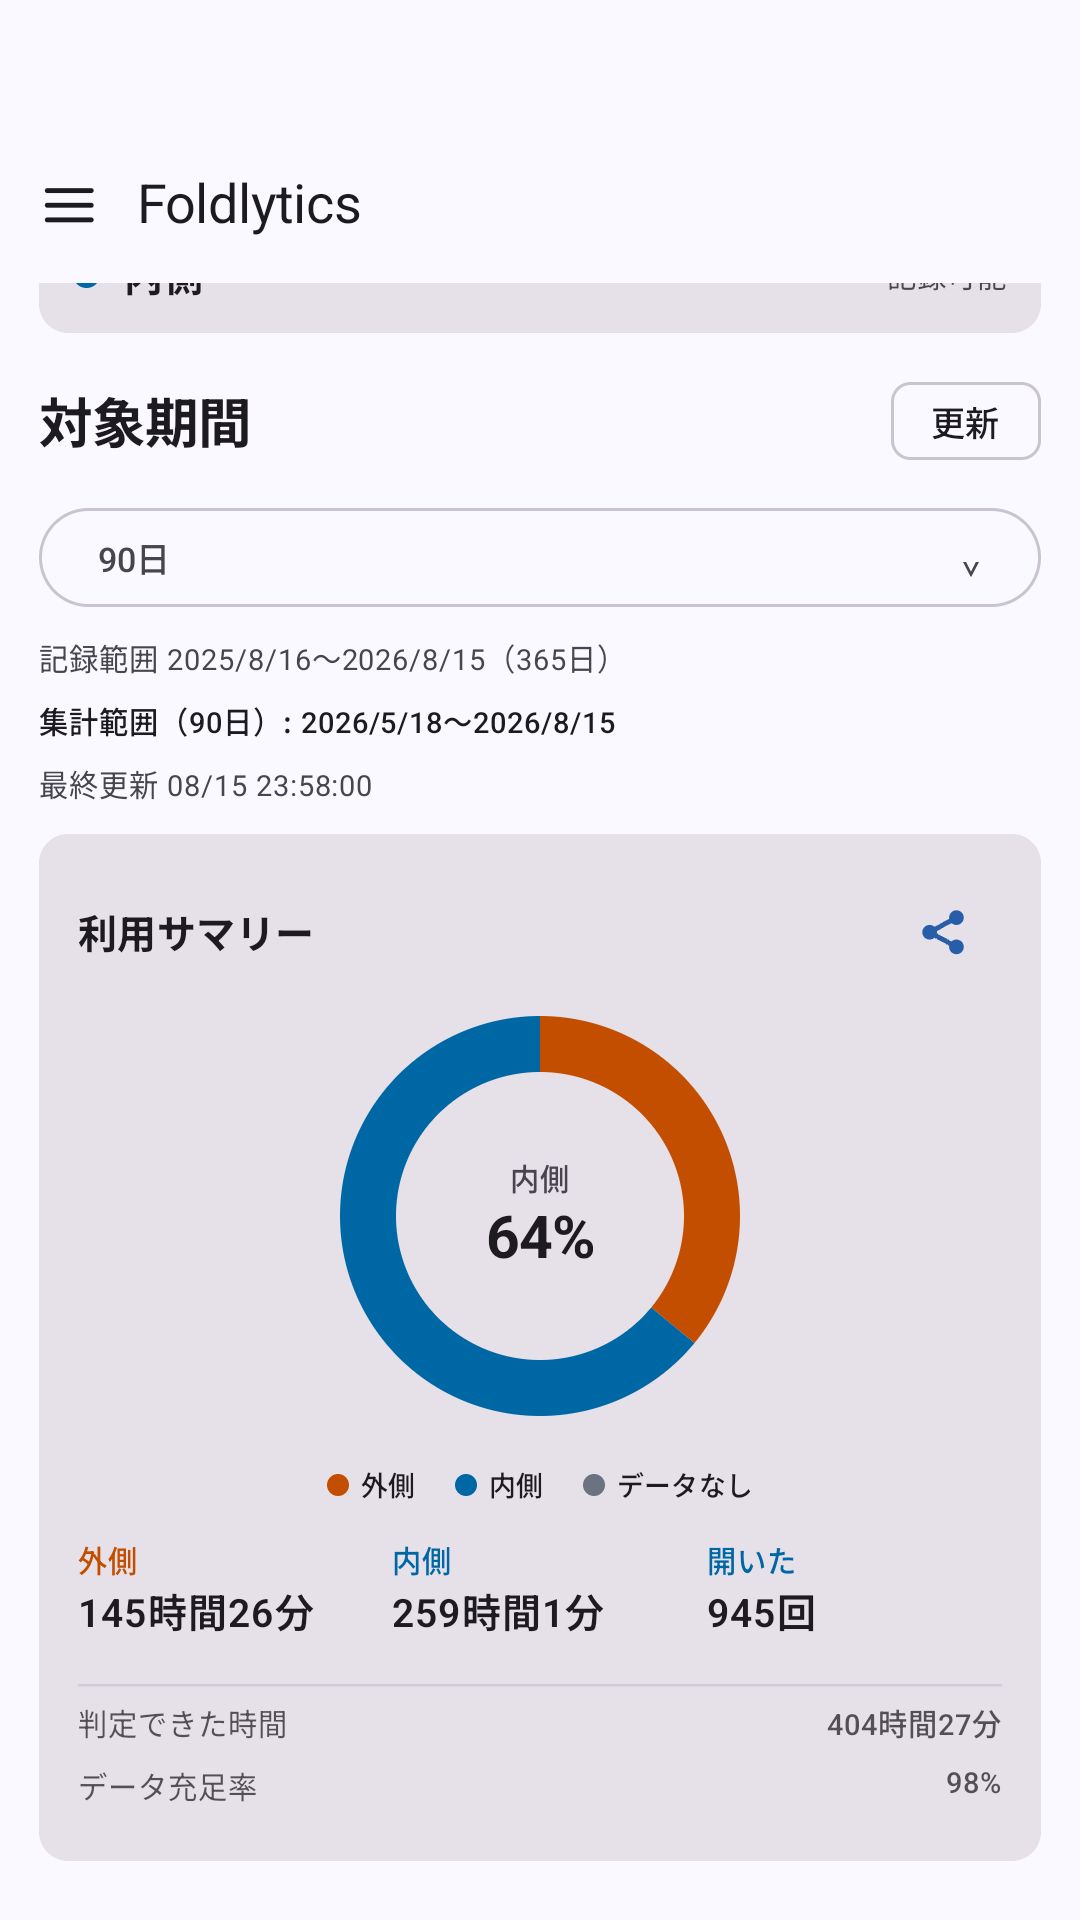
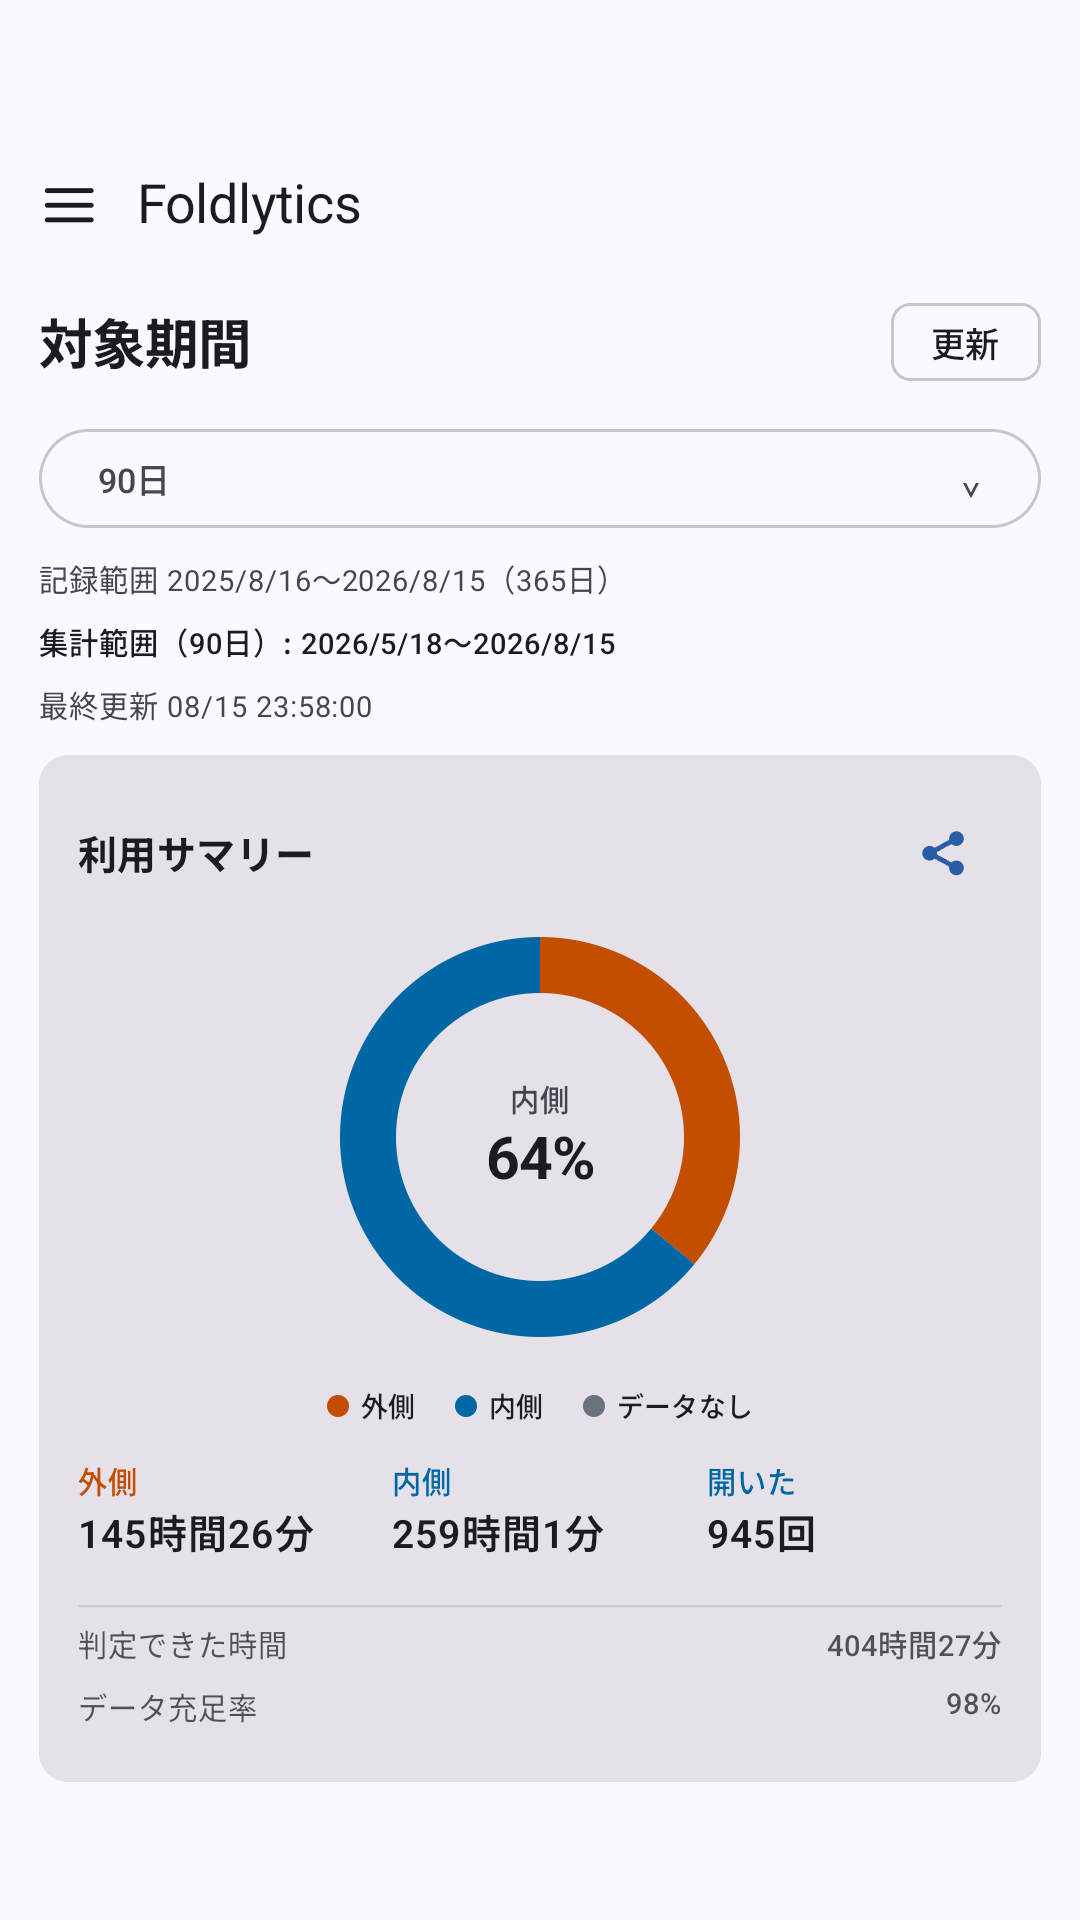
Fix first store screenshot framing

Changed region(s): [[0.0306, 0.125, 0.9778, 0.5], [0.3056, 0.4688, 0.7639, 0.8438], [0.0306, 0.75, 0.9778, 0.9688]]

diff --git a/app/src/androidTest/java/com/nagopy/android/foldlytics/ui/StoreScreenshotCaptureTest.kt b/app/src/androidTest/java/com/nagopy/android/foldlytics/ui/StoreScreenshotCaptureTest.kt
@@ -141,7 +141,7 @@ class StoreScreenshotCaptureTest {
             }
         }
 
-        scrollTo(SUMMARY_CARD_TAG)
+        scrollHomeToItem(HOME_RESULT_HEADER_ITEM_INDEX)
         capture("01-home-summary", outputDirectory)
 
         scrollTo(HOME_INNER_SESSIONS_LINK_TAG)
@@ -435,6 +435,7 @@ class StoreScreenshotCaptureTest {
     companion object {
         private const val RECORD_DAY_COUNT = 365L
         private const val TREND_DAY_COUNT = 90L
+        private const val HOME_RESULT_HEADER_ITEM_INDEX = 1
         private const val HOME_USAGE_TREND_ITEM_INDEX = 3
         // Small capture-only trailing space that prevents scrollToItem from clamping.
         private val SCREENSHOT_SECTION_END_SPACING = 96.dp
